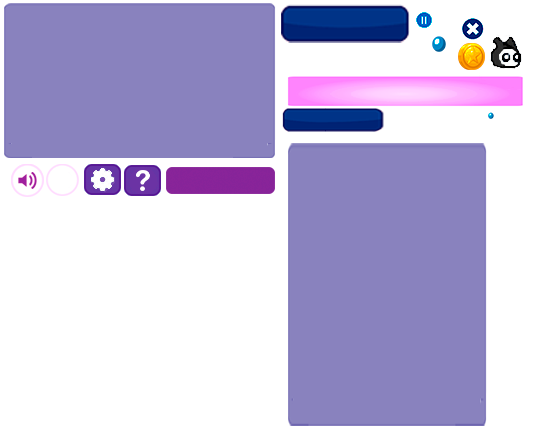
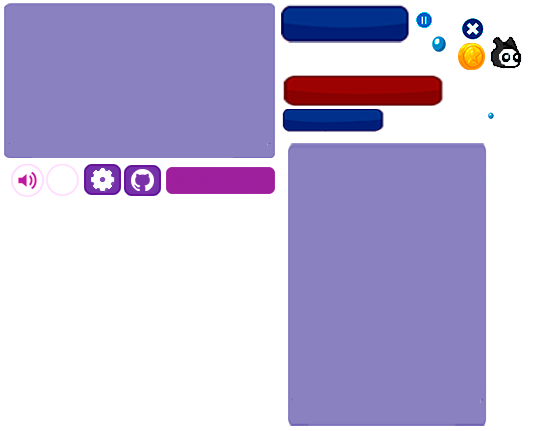
Credits menu

Changed region(s): [[0.4928, 0.1508, 0.9547, 0.2715], [0.2156, 0.3921, 0.2772, 0.4524], [0.0308, 0.3921, 0.0616, 0.4524]]

diff --git a/Hollow_Faith/Motor2D/j1IntroScene.cpp b/Hollow_Faith/Motor2D/j1IntroScene.cpp
@@ -116,7 +116,8 @@ bool j1IntroScene::CleanUp()
 	credits_menu.exit = nullptr;
 	credits_menu.button = nullptr;
 	credits_menu.title = nullptr;
-	credits_menu.scroll = nullptr;
+	credits_menu.link = nullptr;
+	credits_menu.credits = nullptr;
 
 	App->gui->CleanUp();
 	App->tex->UnLoad(texture);
@@ -136,7 +137,8 @@ void j1IntroScene::GuiObserver(GUI_Event type, j1GUIelement* element)
 			App->audio->PlayFx(2, 0, 128);
 
 			if (element == play_button) 
-				App->fade_to_black->FadeToBlack(App->scene, this);			
+				App->fade_to_black->FadeToBlack(App->scene, this);	
+		
 
 			if (element == continue_button) {
 				want_continue = true;
@@ -154,7 +156,8 @@ void j1IntroScene::GuiObserver(GUI_Event type, j1GUIelement* element)
 				credits_menu.image->enabled = false;
 				credits_menu.exit->enabled = false;
 				credits_menu.title->enabled = false;
-				credits_menu.scroll->enabled = false;
+				credits_menu.link->enabled = false;
+				credits_menu.credits->enabled = false;
 				
 			}
 			
@@ -172,7 +175,8 @@ void j1IntroScene::GuiObserver(GUI_Event type, j1GUIelement* element)
 				credits_menu.image->enabled = !credits_menu.image->enabled;
 				credits_menu.exit->enabled = !credits_menu.exit->enabled;
 				credits_menu.title->enabled = !credits_menu.title->enabled;
-				credits_menu.scroll->enabled = !credits_menu.scroll->enabled;
+				credits_menu.link->enabled = !credits_menu.link->enabled;
+				credits_menu.credits->enabled = !credits_menu.credits->enabled;
 				settings_menu.image->enabled = false;
 				settings_menu.exit->enabled = false;
 				settings_menu.scroll1->enabled = false;
@@ -186,8 +190,13 @@ void j1IntroScene::GuiObserver(GUI_Event type, j1GUIelement* element)
 				credits_menu.image->enabled = false;
 				credits_menu.exit->enabled = false;
 				credits_menu.title->enabled = false;
-				credits_menu.scroll->enabled = false;
+				credits_menu.link->enabled = false;
+				credits_menu.credits->enabled = false;
 			}
+
+			if (element == credits_menu.link) {
+				ShellExecuteA(NULL, "open", "https://github.com/juanha2/HollowFaith", NULL, NULL, SW_SHOWNORMAL);
+			}				
 
 			if (element == exit_button)
 				want_exit = true;
@@ -232,6 +241,6 @@ void j1IntroScene::AddUIElements()
 	credits_menu.button = App->gui->AddGUIelement(GUItype::GUI_BUTTON, nullptr, { 450,20 }, { 0,0 }, true, true, { 124,165,37,31 }, nullptr, this);
 	credits_menu.exit = App->gui->AddGUIelement(GUItype::GUI_BUTTON, nullptr, { 440,190 }, { 0,0 }, true, false, { 459,16,26,26 }, nullptr, this);
 	credits_menu.title = App->gui->AddGUIelement(GUItype::GUI_BUTTON, nullptr, { 250,170 }, { 0,-3 }, false, false, { 166,167,109,27 }, "CREDITS", this);
-	credits_menu.scroll = App->gui->AddGUIelement(GUItype::GUI_SCROLLBAR, nullptr, { 452, 225 }, { 0,0 }, false, false, { 530, 12, 4, 102 }, nullptr, this, false, true);
-
+	credits_menu.link = App->gui->AddGUIelement(GUItype::GUI_BUTTON, nullptr, { 325, 120 }, { -5,0 }, true, false, { 283, 75, 159, 31 }, "LINK TO PROJECT!", this);
+	credits_menu.credits = App->gui->AddGUIelement(GUItype::GUI_IMAGE, nullptr, { 215, 200 }, { 0,0 }, true, false, { 9,215, 257, 130 }, nullptr, this);
 }

diff --git a/Hollow_Faith/Motor2D/j1GUIelement.cpp b/Hollow_Faith/Motor2D/j1GUIelement.cpp
@@ -6,7 +6,7 @@
 #include "j1Input.h"
 #include "j1Render.h"
 #include "j1Window.h"
-
+#include "j1Scene.h"
 
 
 j1GUIelement::~j1GUIelement()
@@ -37,7 +37,8 @@ void j1GUIelement::Draw()
 
 	App->render->Blit(texture, globalPosition.x, globalPosition.y, &rect, 0.0f, 0.0f);
 
-	App->render->DrawQuad({ globalPosition.x, globalPosition.y, rect.w, rect.h }, 0, 255, 255, 255, false, false, true);
+	if(App->scene->debug)
+		App->render->DrawQuad({ globalPosition.x, globalPosition.y, rect.w, rect.h }, 0, 255, 255, 255, false, false, true);
 }
 
 

diff --git a/Hollow_Faith/Motor2D/j1Checkpoint.cpp b/Hollow_Faith/Motor2D/j1Checkpoint.cpp
@@ -77,8 +77,7 @@ void j1Checkpoint::LoadCheckPoints()
 	{
 		LOG("Loading CHEKPOITNS state from %s...", load_game.GetString());
 
-		root = data.child("game_state");
-
+		root = data.child("game_state");		
 		App->objects->Load(root);		//We call load method of each entity	
 			
 	}

diff --git a/Hollow_Faith/Motor2D/j1IntroScene.h b/Hollow_Faith/Motor2D/j1IntroScene.h
@@ -26,7 +26,8 @@ struct CreditsMenu {
 	j1GUIelement* exit = nullptr;
 	j1GUIelement* button = nullptr;
 	j1GUIelement* title = nullptr;
-	j1GUIelement* scroll = nullptr;
+	j1GUIelement* credits = nullptr;
+	j1GUIelement* link = nullptr;
 };
 
 class j1IntroScene : public j1Module

diff --git a/Hollow_Faith/Motor2D/j1Scene.cpp b/Hollow_Faith/Motor2D/j1Scene.cpp
@@ -348,7 +348,8 @@ void j1Scene::sceneswitch()
 				sound_repeat = true;
 				lifes--;
 			}
-			
+			num_coins = 0;
+
 			if (currentmap == 1)
 				currentmap = 1;
 			else if (currentmap == 2)
